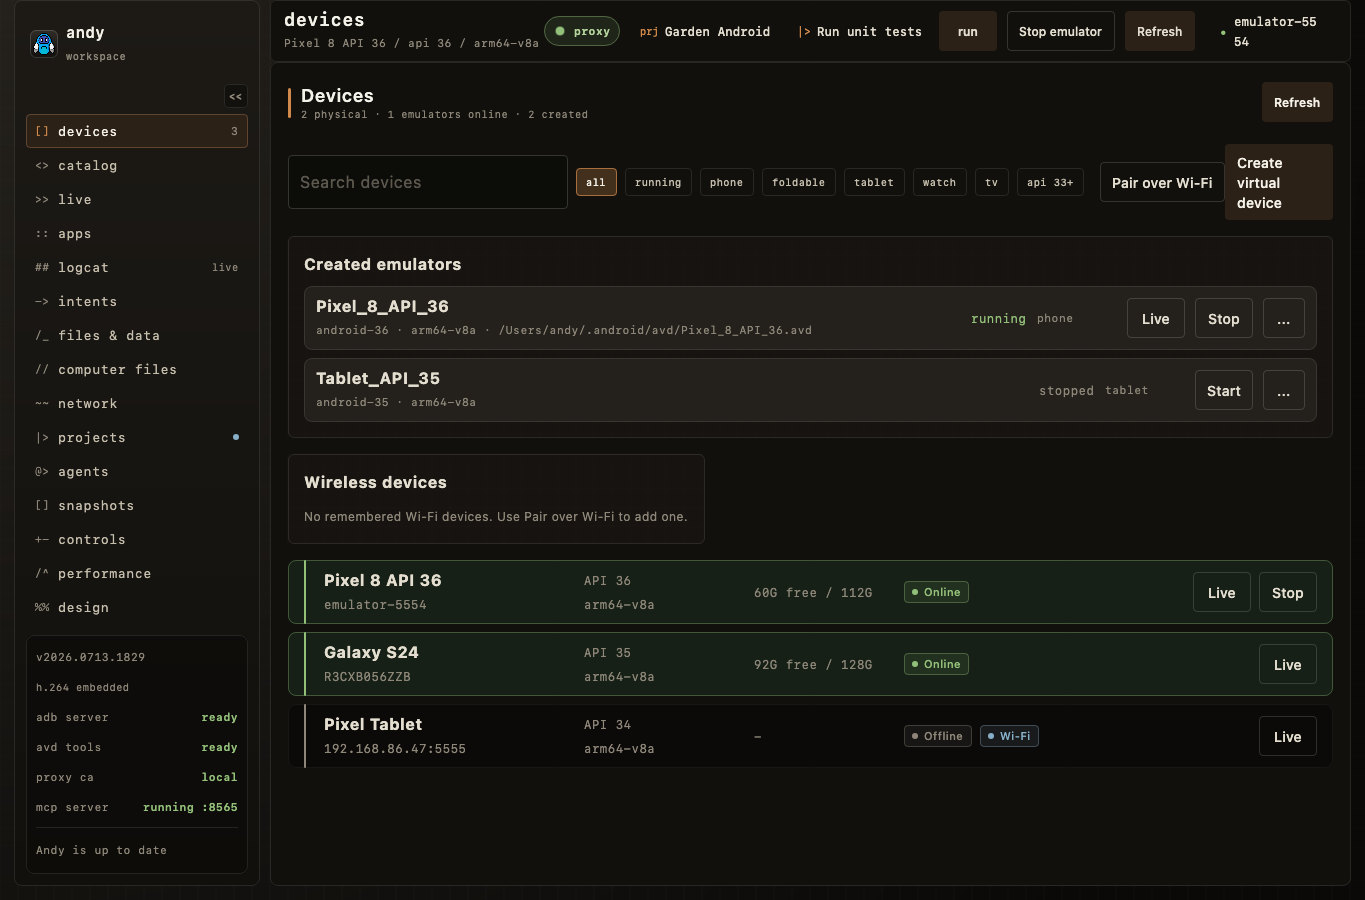
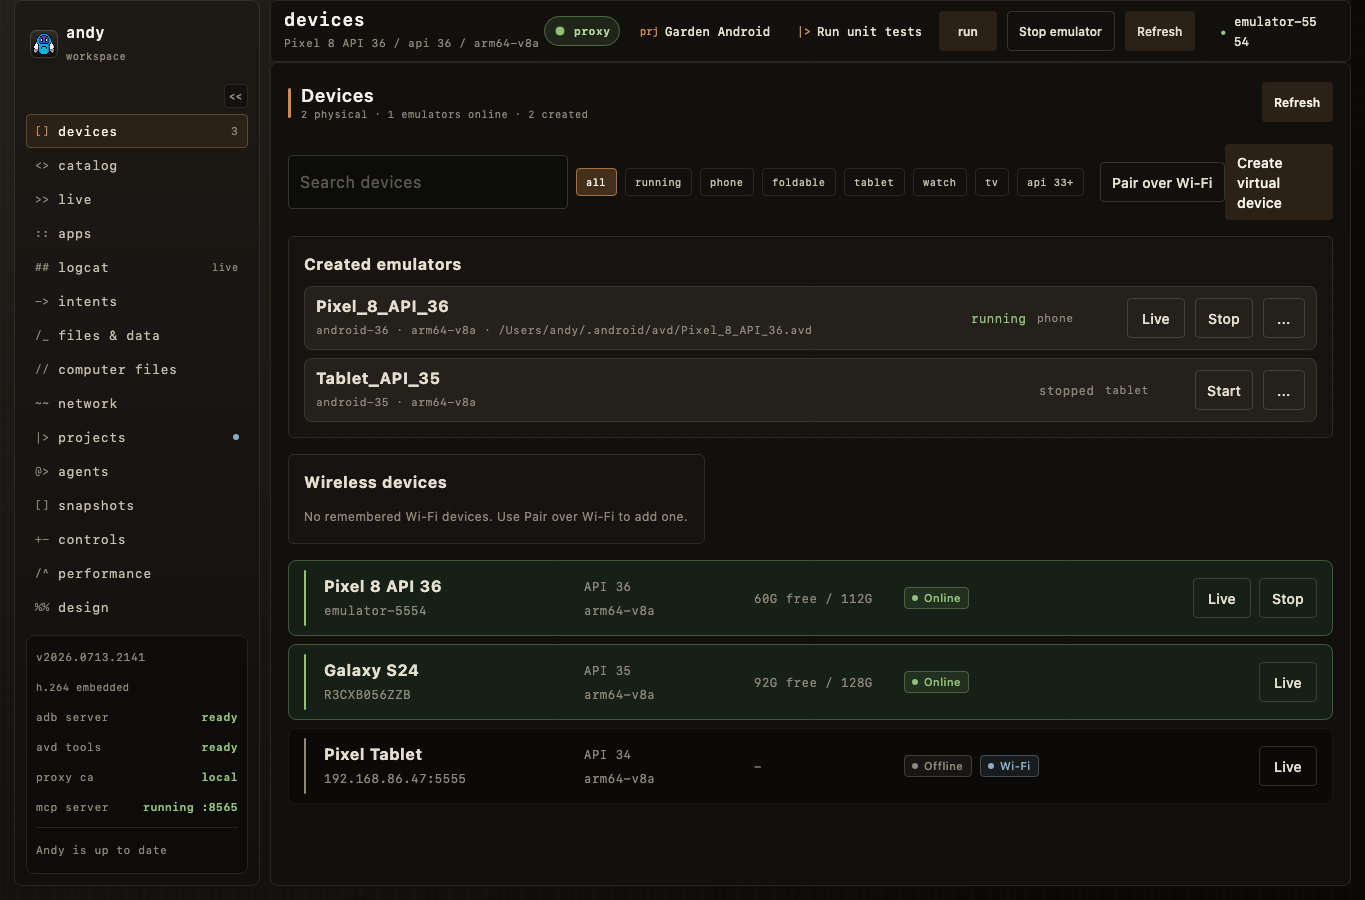
Fix device-row intrinsics and web ruler drag state.
Use IntrinsicSize.Min for LazyColumn device rows so the status bar can fill height safely, keep ruler drag axis local to the web host, and refresh the macOS devices screenshot baseline.

Changed region(s): [[0.2154, 0.6222, 0.9846, 0.8711], [0.6769, 0.8089, 0.7692, 0.8711]]

diff --git a/src/wasmJsMain/kotlin/app/andy/MirrorVideoSurface.web.kt b/src/wasmJsMain/kotlin/app/andy/MirrorVideoSurface.web.kt
@@ -40,7 +40,6 @@ private data class WebMirrorInteraction(
     val onPickerClick: (String) -> Unit,
     val onDevicePointClick: (Int, Int) -> Unit,
     val onRulerResize: (Float, Float) -> Unit,
-    var rulerAxis: String? = null,
 )
 
 private data class WebMirrorPoint(val x: Int, val y: Int, val color: String)
@@ -82,11 +81,12 @@ private fun androidx.compose.ui.graphics.Color.toCssColor(): String {
 }
 
 private fun installMirrorInteraction(host: HTMLDivElement) {
+    var activeRulerAxis: String? = null
     host.addEventListener("pointermove", { event ->
         val interaction = mirrorInteractions[host.id]
         if (interaction != null) {
             val pointer = event.unsafeCast<WebPointerEvent>()
-            val rulerAxis = interaction.rulerAxis
+            val rulerAxis = activeRulerAxis
             if (rulerAxis != null) {
                 webMirrorSourcePoint(host.id, event)?.let { (sourceX, sourceY) ->
                     val nextX = if (rulerAxis == "x") sourceX else interaction.overlay.rulerX
@@ -107,7 +107,7 @@ private fun installMirrorInteraction(host: HTMLDivElement) {
             val pointer = event.unsafeCast<WebPointerEvent>()
             val rulerAxis = webAdbMirrorRulerAxis(host.id, pointer.clientX, pointer.clientY)
             if (rulerAxis.isNotEmpty()) {
-                interaction.rulerAxis = rulerAxis
+                activeRulerAxis = rulerAxis
                 host.setPointerCapture(pointer.pointerId)
                 event.preventDefault()
                 pointer.stopImmediatePropagation()
@@ -126,18 +126,16 @@ private fun installMirrorInteraction(host: HTMLDivElement) {
         }
     }, true)
     host.addEventListener("pointerup", { event ->
-        val interaction = mirrorInteractions[host.id] ?: return@addEventListener
-        if (interaction.rulerAxis != null) {
-            interaction.rulerAxis = null
+        if (activeRulerAxis != null) {
+            activeRulerAxis = null
             host.releasePointerCapture(event.unsafeCast<WebPointerEvent>().pointerId)
             event.preventDefault()
             event.unsafeCast<WebPointerEvent>().stopImmediatePropagation()
         }
     }, true)
     host.addEventListener("pointercancel", { event ->
-        val interaction = mirrorInteractions[host.id] ?: return@addEventListener
-        if (interaction.rulerAxis != null) {
-            interaction.rulerAxis = null
+        if (activeRulerAxis != null) {
+            activeRulerAxis = null
             host.releasePointerCapture(event.unsafeCast<WebPointerEvent>().pointerId)
             event.preventDefault()
             event.unsafeCast<WebPointerEvent>().stopImmediatePropagation()
@@ -178,7 +176,6 @@ private fun WebMirrorHost(
                 onPickerClick = onPickerClick,
                 onDevicePointClick = onDevicePointClick,
                 onRulerResize = onRulerResize,
-                rulerAxis = mirrorInteractions[it.id]?.rulerAxis,
             )
             webAdbAttachMirror(it.id)
             webAdbSetMirrorOverlay(it.id, overlay.webConfig())

diff --git a/src/commonMain/kotlin/app/andy/ui/devices/DevicesScreen.kt b/src/commonMain/kotlin/app/andy/ui/devices/DevicesScreen.kt
@@ -14,6 +14,7 @@ import androidx.compose.foundation.layout.fillMaxSize
 import androidx.compose.foundation.layout.fillMaxWidth
 import androidx.compose.foundation.layout.height
 import androidx.compose.foundation.layout.heightIn
+import androidx.compose.foundation.layout.IntrinsicSize
 import androidx.compose.foundation.layout.padding
 import androidx.compose.foundation.layout.size
 import androidx.compose.foundation.layout.width
@@ -386,6 +387,7 @@ internal fun DevicesScreen(
                 val rowShape = RoundedCornerShape(AndyRadius.R4)
                 Row(
                     Modifier.fillMaxWidth()
+                        .height(IntrinsicSize.Min)
                         .heightIn(min = 76.dp)
                         .background(if (online) AndyColors.GreenSubtle.copy(alpha = 0.82f) else AndyColors.Neutral900.copy(alpha = 0.7f), rowShape)
                         .border(1.dp, if (online) Green.copy(alpha = 0.35f) else Color.White.copy(alpha = 0.05f), rowShape)